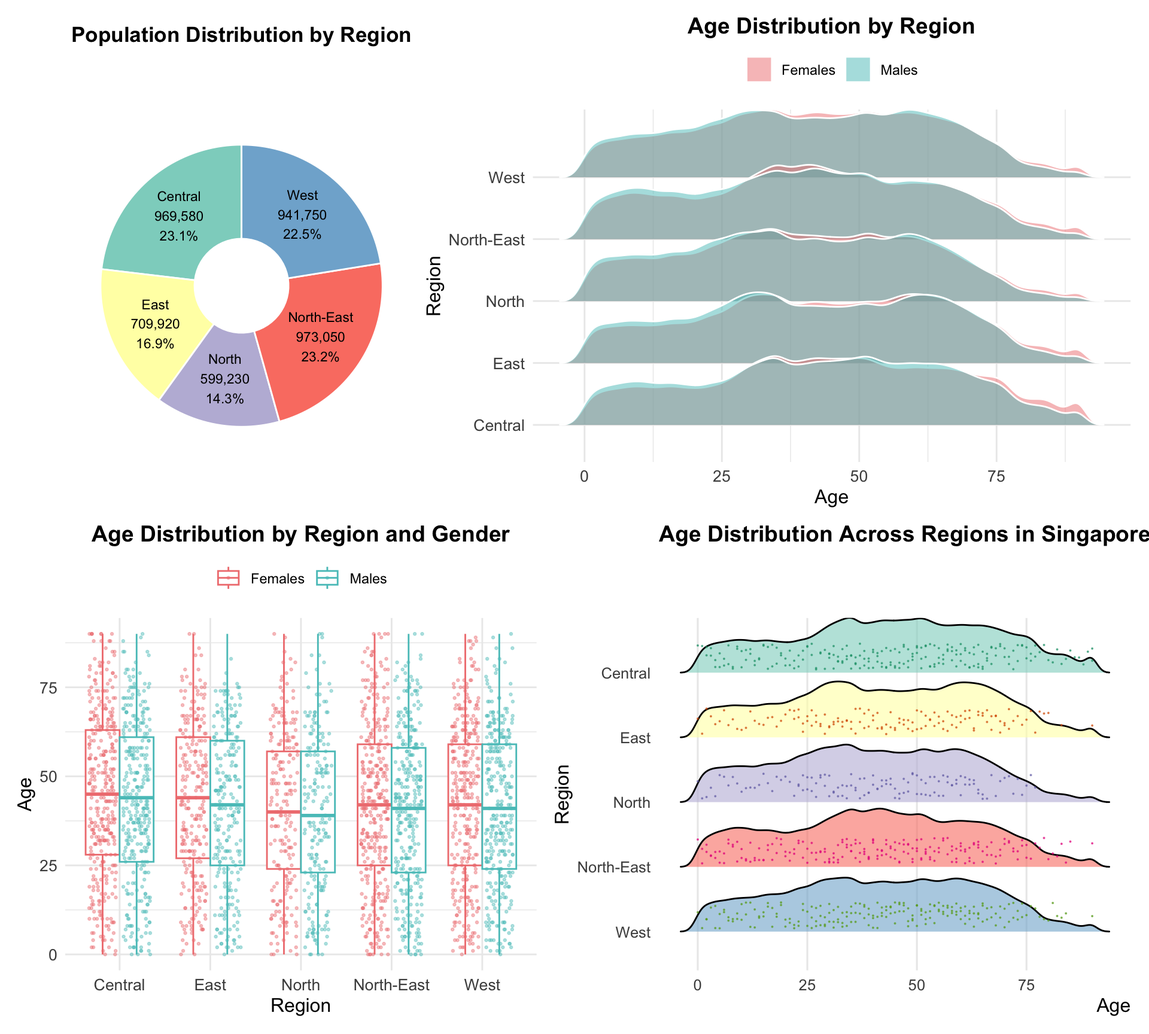
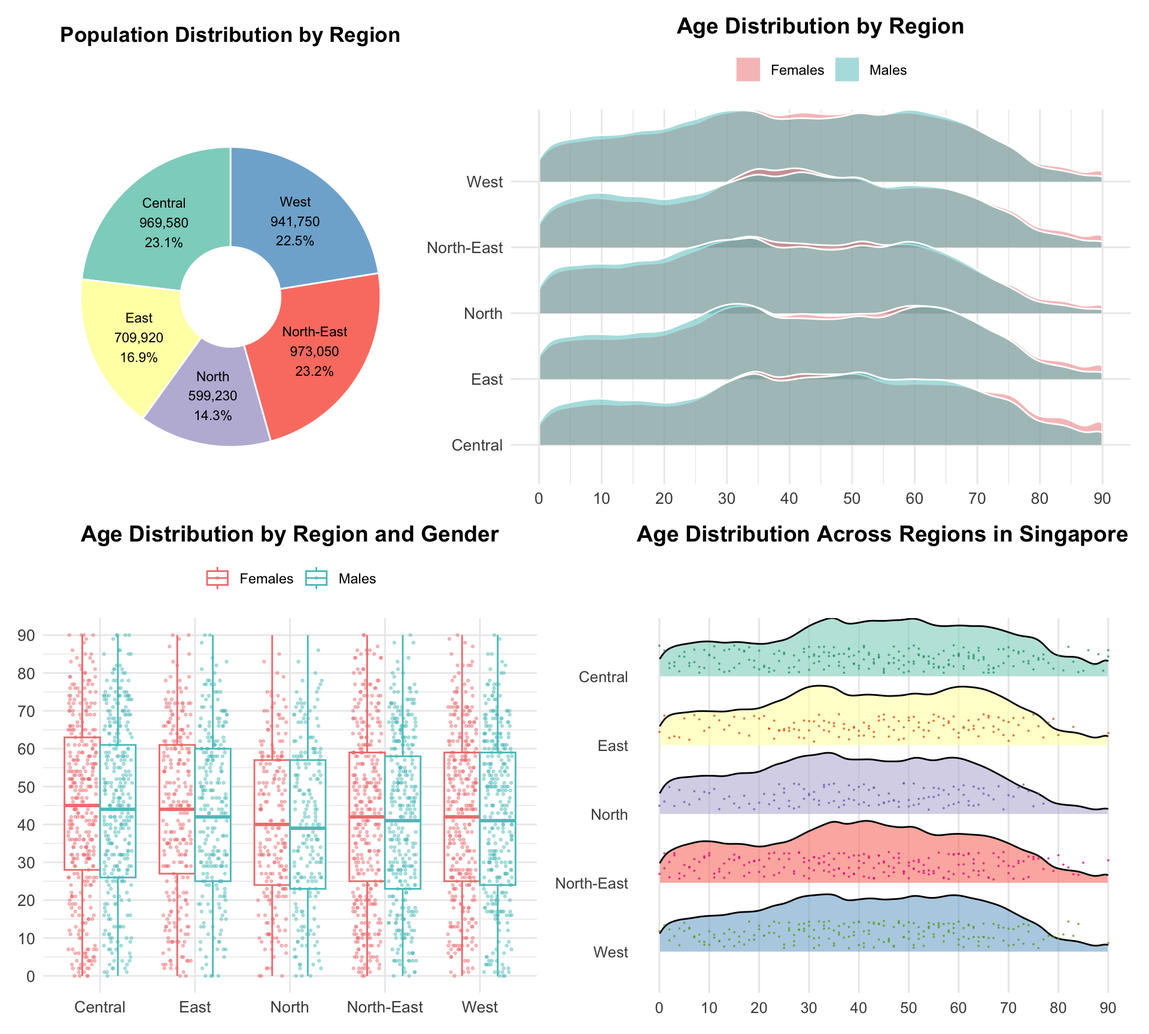
commit for take home ex 1 v5

diff --git a/_site/Take-home_Ex/Take-home_Ex01/Take-home_Ex01.html b/_site/Take-home_Ex/Take-home_Ex01/Take-home_Ex01.html
@@ -490,7 +490,7 @@ $ Time &lt;dbl&gt; 2024, 2024, 2024, 2024, 2024, 2024, 2024, 2024, 2024, 2024, 2
 <pre><code>                             size isdir mode               mtime
 data/respopagesex2024.csv 2521616 FALSE  644 2024-09-23 17:44:00
                                         ctime               atime uid gid
-data/respopagesex2024.csv 2025-05-02 17:13:57 2025-05-04 16:31:32 501  20
+data/respopagesex2024.csv 2025-05-02 17:13:57 2025-05-04 17:36:18 501  20
                              uname grname
 data/respopagesex2024.csv liyuquan  staff</code></pre>
 </div>
@@ -1199,55 +1199,56 @@ Insight
 <span id="cb29-51"><a href="#cb29-51" aria-hidden="true" tabindex="-1"></a>  <span class="fu">geom_text</span>(<span class="fu">aes</span>(<span class="at">label =</span> <span class="fu">round</span>(<span class="fu">abs</span>(Percent), <span class="dv">1</span>)),</span>
 <span id="cb29-52"><a href="#cb29-52" aria-hidden="true" tabindex="-1"></a>            <span class="at">position =</span> <span class="fu">position_stack</span>(<span class="at">vjust =</span> <span class="fl">0.5</span>),</span>
 <span id="cb29-53"><a href="#cb29-53" aria-hidden="true" tabindex="-1"></a>            <span class="at">size =</span> <span class="dv">3</span>, <span class="at">color =</span> <span class="st">"black"</span>) <span class="sc">+</span></span>
-<span id="cb29-54"><a href="#cb29-54" aria-hidden="true" tabindex="-1"></a>  <span class="fu">scale_x_continuous</span>(<span class="at">labels =</span> <span class="cf">function</span>(x) <span class="fu">paste0</span>(<span class="fu">abs</span>(x), <span class="st">"%"</span>)) <span class="sc">+</span></span>
-<span id="cb29-55"><a href="#cb29-55" aria-hidden="true" tabindex="-1"></a>  <span class="fu">scale_fill_manual</span>(<span class="at">values =</span> <span class="fu">c</span>(<span class="st">"Males"</span> <span class="ot">=</span> <span class="st">"#58c3c3"</span>, </span>
-<span id="cb29-56"><a href="#cb29-56" aria-hidden="true" tabindex="-1"></a>                               <span class="st">"Females"</span> <span class="ot">=</span> <span class="st">"#f08080"</span>)) <span class="sc">+</span></span>
-<span id="cb29-57"><a href="#cb29-57" aria-hidden="true" tabindex="-1"></a>  <span class="fu">labs</span>(</span>
-<span id="cb29-58"><a href="#cb29-58" aria-hidden="true" tabindex="-1"></a>    <span class="at">title =</span> <span class="st">"Gender Composition by Planning Area"</span>,</span>
-<span id="cb29-59"><a href="#cb29-59" aria-hidden="true" tabindex="-1"></a>    <span class="at">x =</span> <span class="st">"Percentage of Population (%)"</span>,</span>
-<span id="cb29-60"><a href="#cb29-60" aria-hidden="true" tabindex="-1"></a>    <span class="at">y =</span> <span class="st">"Planning Area"</span>,</span>
-<span id="cb29-61"><a href="#cb29-61" aria-hidden="true" tabindex="-1"></a>    <span class="at">fill =</span> <span class="st">"Sex"</span></span>
-<span id="cb29-62"><a href="#cb29-62" aria-hidden="true" tabindex="-1"></a>  ) <span class="sc">+</span></span>
-<span id="cb29-63"><a href="#cb29-63" aria-hidden="true" tabindex="-1"></a>  <span class="fu">theme_minimal</span>() <span class="sc">+</span></span>
-<span id="cb29-64"><a href="#cb29-64" aria-hidden="true" tabindex="-1"></a>  common_theme_v2</span>
-<span id="cb29-65"><a href="#cb29-65" aria-hidden="true" tabindex="-1"></a></span>
-<span id="cb29-66"><a href="#cb29-66" aria-hidden="true" tabindex="-1"></a><span class="co"># p8</span></span>
-<span id="cb29-67"><a href="#cb29-67" aria-hidden="true" tabindex="-1"></a>p8 <span class="ot">&lt;-</span> <span class="fu">ggplot</span>(v2_p8, <span class="fu">aes</span>(<span class="at">x =</span> Elderly_Rate_plot, </span>
-<span id="cb29-68"><a href="#cb29-68" aria-hidden="true" tabindex="-1"></a>                        <span class="at">y =</span> PA, </span>
-<span id="cb29-69"><a href="#cb29-69" aria-hidden="true" tabindex="-1"></a>                        <span class="at">fill =</span> Sex)) <span class="sc">+</span></span>
-<span id="cb29-70"><a href="#cb29-70" aria-hidden="true" tabindex="-1"></a>  <span class="fu">geom_col</span>(<span class="at">width =</span> <span class="fl">0.8</span>) <span class="sc">+</span></span>
-<span id="cb29-71"><a href="#cb29-71" aria-hidden="true" tabindex="-1"></a>  <span class="fu">geom_text</span>(</span>
-<span id="cb29-72"><a href="#cb29-72" aria-hidden="true" tabindex="-1"></a>    <span class="at">data =</span> <span class="fu">subset</span>(v2_p8, </span>
-<span id="cb29-73"><a href="#cb29-73" aria-hidden="true" tabindex="-1"></a>                  Sex <span class="sc">==</span> <span class="st">"Females"</span>),</span>
-<span id="cb29-74"><a href="#cb29-74" aria-hidden="true" tabindex="-1"></a>    <span class="fu">aes</span>(<span class="at">label =</span> <span class="fu">paste0</span>(<span class="fu">round</span>(<span class="fu">abs</span>(Elderly_Rate), <span class="dv">1</span>), <span class="st">"%"</span>)),</span>
-<span id="cb29-75"><a href="#cb29-75" aria-hidden="true" tabindex="-1"></a>    <span class="at">nudge_x =</span> <span class="sc">-</span><span class="dv">9</span>,</span>
-<span id="cb29-76"><a href="#cb29-76" aria-hidden="true" tabindex="-1"></a>    <span class="at">size =</span> <span class="dv">3</span>,</span>
-<span id="cb29-77"><a href="#cb29-77" aria-hidden="true" tabindex="-1"></a>    <span class="at">color =</span> <span class="st">"black"</span></span>
-<span id="cb29-78"><a href="#cb29-78" aria-hidden="true" tabindex="-1"></a>  ) <span class="sc">+</span></span>
-<span id="cb29-79"><a href="#cb29-79" aria-hidden="true" tabindex="-1"></a>  </span>
-<span id="cb29-80"><a href="#cb29-80" aria-hidden="true" tabindex="-1"></a>  <span class="fu">geom_text</span>(</span>
-<span id="cb29-81"><a href="#cb29-81" aria-hidden="true" tabindex="-1"></a>    <span class="at">data =</span> <span class="fu">subset</span>(v2_p8, </span>
-<span id="cb29-82"><a href="#cb29-82" aria-hidden="true" tabindex="-1"></a>                  Sex <span class="sc">==</span> <span class="st">"Males"</span>),</span>
-<span id="cb29-83"><a href="#cb29-83" aria-hidden="true" tabindex="-1"></a>    <span class="fu">aes</span>(<span class="at">label =</span> <span class="fu">paste0</span>(<span class="fu">round</span>(<span class="fu">abs</span>(Elderly_Rate), <span class="dv">1</span>), <span class="st">"%"</span>)),</span>
-<span id="cb29-84"><a href="#cb29-84" aria-hidden="true" tabindex="-1"></a>    <span class="at">nudge_x =</span> <span class="dv">9</span>,</span>
-<span id="cb29-85"><a href="#cb29-85" aria-hidden="true" tabindex="-1"></a>    <span class="at">size =</span> <span class="dv">3</span>,</span>
-<span id="cb29-86"><a href="#cb29-86" aria-hidden="true" tabindex="-1"></a>    <span class="at">color =</span> <span class="st">"black"</span></span>
-<span id="cb29-87"><a href="#cb29-87" aria-hidden="true" tabindex="-1"></a>  ) <span class="sc">+</span></span>
-<span id="cb29-88"><a href="#cb29-88" aria-hidden="true" tabindex="-1"></a>  <span class="fu">scale_x_continuous</span>(<span class="at">labels =</span> <span class="cf">function</span>(x) <span class="fu">paste0</span>(<span class="fu">abs</span>(x), <span class="st">"%"</span>)) <span class="sc">+</span></span>
-<span id="cb29-89"><a href="#cb29-89" aria-hidden="true" tabindex="-1"></a>  <span class="fu">scale_fill_manual</span>(<span class="at">values =</span> <span class="fu">c</span>(<span class="st">"Males"</span> <span class="ot">=</span> <span class="st">"#58c3c3"</span>, </span>
-<span id="cb29-90"><a href="#cb29-90" aria-hidden="true" tabindex="-1"></a>                               <span class="st">"Females"</span> <span class="ot">=</span> <span class="st">"#f08080"</span>)) <span class="sc">+</span></span>
-<span id="cb29-91"><a href="#cb29-91" aria-hidden="true" tabindex="-1"></a>  <span class="fu">labs</span>(</span>
-<span id="cb29-92"><a href="#cb29-92" aria-hidden="true" tabindex="-1"></a>    <span class="at">title =</span> <span class="st">"Top 10 &amp; Bottom 10 Areas by Elderly Rate</span><span class="sc">\n</span><span class="st">(≥ 65) by Gender"</span>,</span>
-<span id="cb29-93"><a href="#cb29-93" aria-hidden="true" tabindex="-1"></a>    <span class="at">x =</span> <span class="st">"Elderly Population Ratio (%)"</span>,</span>
-<span id="cb29-94"><a href="#cb29-94" aria-hidden="true" tabindex="-1"></a>    <span class="at">y =</span> <span class="st">"Planning Area"</span>,</span>
-<span id="cb29-95"><a href="#cb29-95" aria-hidden="true" tabindex="-1"></a>    <span class="at">fill =</span> <span class="st">"Sex"</span></span>
-<span id="cb29-96"><a href="#cb29-96" aria-hidden="true" tabindex="-1"></a>  ) <span class="sc">+</span></span>
-<span id="cb29-97"><a href="#cb29-97" aria-hidden="true" tabindex="-1"></a>    <span class="fu">coord_cartesian</span>(<span class="at">xlim =</span> <span class="fu">c</span>(<span class="sc">-</span><span class="dv">50</span>, <span class="dv">50</span>)) <span class="sc">+</span>  </span>
-<span id="cb29-98"><a href="#cb29-98" aria-hidden="true" tabindex="-1"></a>  <span class="fu">theme_minimal</span>() <span class="sc">+</span></span>
-<span id="cb29-99"><a href="#cb29-99" aria-hidden="true" tabindex="-1"></a>  common_theme_v2</span>
-<span id="cb29-100"><a href="#cb29-100" aria-hidden="true" tabindex="-1"></a></span>
+<span id="cb29-54"><a href="#cb29-54" aria-hidden="true" tabindex="-1"></a>  <span class="fu">scale_x_continuous</span>(<span class="at">limits =</span> <span class="fu">c</span>(<span class="sc">-</span><span class="dv">60</span>, <span class="dv">60</span>),</span>
+<span id="cb29-55"><a href="#cb29-55" aria-hidden="true" tabindex="-1"></a>                     <span class="at">labels =</span> <span class="cf">function</span>(x) <span class="fu">paste0</span>(<span class="fu">abs</span>(x), <span class="st">"%"</span>)) <span class="sc">+</span></span>
+<span id="cb29-56"><a href="#cb29-56" aria-hidden="true" tabindex="-1"></a>  <span class="fu">scale_fill_manual</span>(<span class="at">values =</span> <span class="fu">c</span>(<span class="st">"Males"</span> <span class="ot">=</span> <span class="st">"#58c3c3"</span>, </span>
+<span id="cb29-57"><a href="#cb29-57" aria-hidden="true" tabindex="-1"></a>                               <span class="st">"Females"</span> <span class="ot">=</span> <span class="st">"#f08080"</span>)) <span class="sc">+</span></span>
+<span id="cb29-58"><a href="#cb29-58" aria-hidden="true" tabindex="-1"></a>  <span class="fu">labs</span>(</span>
+<span id="cb29-59"><a href="#cb29-59" aria-hidden="true" tabindex="-1"></a>    <span class="at">title =</span> <span class="st">"Gender Composition by Planning Area"</span>,</span>
+<span id="cb29-60"><a href="#cb29-60" aria-hidden="true" tabindex="-1"></a>    <span class="at">x =</span> <span class="st">"Percentage of Population (%)"</span>,</span>
+<span id="cb29-61"><a href="#cb29-61" aria-hidden="true" tabindex="-1"></a>    <span class="at">y =</span> <span class="st">"Planning Area"</span>,</span>
+<span id="cb29-62"><a href="#cb29-62" aria-hidden="true" tabindex="-1"></a>    <span class="at">fill =</span> <span class="st">"Sex"</span></span>
+<span id="cb29-63"><a href="#cb29-63" aria-hidden="true" tabindex="-1"></a>  ) <span class="sc">+</span></span>
+<span id="cb29-64"><a href="#cb29-64" aria-hidden="true" tabindex="-1"></a>  <span class="fu">theme_minimal</span>() <span class="sc">+</span></span>
+<span id="cb29-65"><a href="#cb29-65" aria-hidden="true" tabindex="-1"></a>  common_theme_v2</span>
+<span id="cb29-66"><a href="#cb29-66" aria-hidden="true" tabindex="-1"></a></span>
+<span id="cb29-67"><a href="#cb29-67" aria-hidden="true" tabindex="-1"></a><span class="co"># p8</span></span>
+<span id="cb29-68"><a href="#cb29-68" aria-hidden="true" tabindex="-1"></a>p8 <span class="ot">&lt;-</span> <span class="fu">ggplot</span>(v2_p8, <span class="fu">aes</span>(<span class="at">x =</span> Elderly_Rate_plot, </span>
+<span id="cb29-69"><a href="#cb29-69" aria-hidden="true" tabindex="-1"></a>                        <span class="at">y =</span> PA, </span>
+<span id="cb29-70"><a href="#cb29-70" aria-hidden="true" tabindex="-1"></a>                        <span class="at">fill =</span> Sex)) <span class="sc">+</span></span>
+<span id="cb29-71"><a href="#cb29-71" aria-hidden="true" tabindex="-1"></a>  <span class="fu">geom_col</span>(<span class="at">width =</span> <span class="fl">0.8</span>) <span class="sc">+</span></span>
+<span id="cb29-72"><a href="#cb29-72" aria-hidden="true" tabindex="-1"></a>  <span class="fu">geom_text</span>(</span>
+<span id="cb29-73"><a href="#cb29-73" aria-hidden="true" tabindex="-1"></a>    <span class="at">data =</span> <span class="fu">subset</span>(v2_p8, </span>
+<span id="cb29-74"><a href="#cb29-74" aria-hidden="true" tabindex="-1"></a>                  Sex <span class="sc">==</span> <span class="st">"Females"</span>),</span>
+<span id="cb29-75"><a href="#cb29-75" aria-hidden="true" tabindex="-1"></a>    <span class="fu">aes</span>(<span class="at">label =</span> <span class="fu">paste0</span>(<span class="fu">round</span>(<span class="fu">abs</span>(Elderly_Rate), <span class="dv">1</span>), <span class="st">"%"</span>)),</span>
+<span id="cb29-76"><a href="#cb29-76" aria-hidden="true" tabindex="-1"></a>    <span class="at">nudge_x =</span> <span class="sc">-</span><span class="dv">9</span>,</span>
+<span id="cb29-77"><a href="#cb29-77" aria-hidden="true" tabindex="-1"></a>    <span class="at">size =</span> <span class="dv">3</span>,</span>
+<span id="cb29-78"><a href="#cb29-78" aria-hidden="true" tabindex="-1"></a>    <span class="at">color =</span> <span class="st">"black"</span></span>
+<span id="cb29-79"><a href="#cb29-79" aria-hidden="true" tabindex="-1"></a>  ) <span class="sc">+</span></span>
+<span id="cb29-80"><a href="#cb29-80" aria-hidden="true" tabindex="-1"></a>  </span>
+<span id="cb29-81"><a href="#cb29-81" aria-hidden="true" tabindex="-1"></a>  <span class="fu">geom_text</span>(</span>
+<span id="cb29-82"><a href="#cb29-82" aria-hidden="true" tabindex="-1"></a>    <span class="at">data =</span> <span class="fu">subset</span>(v2_p8, </span>
+<span id="cb29-83"><a href="#cb29-83" aria-hidden="true" tabindex="-1"></a>                  Sex <span class="sc">==</span> <span class="st">"Males"</span>),</span>
+<span id="cb29-84"><a href="#cb29-84" aria-hidden="true" tabindex="-1"></a>    <span class="fu">aes</span>(<span class="at">label =</span> <span class="fu">paste0</span>(<span class="fu">round</span>(<span class="fu">abs</span>(Elderly_Rate), <span class="dv">1</span>), <span class="st">"%"</span>)),</span>
+<span id="cb29-85"><a href="#cb29-85" aria-hidden="true" tabindex="-1"></a>    <span class="at">nudge_x =</span> <span class="dv">9</span>,</span>
+<span id="cb29-86"><a href="#cb29-86" aria-hidden="true" tabindex="-1"></a>    <span class="at">size =</span> <span class="dv">3</span>,</span>
+<span id="cb29-87"><a href="#cb29-87" aria-hidden="true" tabindex="-1"></a>    <span class="at">color =</span> <span class="st">"black"</span></span>
+<span id="cb29-88"><a href="#cb29-88" aria-hidden="true" tabindex="-1"></a>  ) <span class="sc">+</span></span>
+<span id="cb29-89"><a href="#cb29-89" aria-hidden="true" tabindex="-1"></a>  <span class="fu">scale_x_continuous</span>(<span class="at">labels =</span> <span class="cf">function</span>(x) <span class="fu">paste0</span>(<span class="fu">abs</span>(x), <span class="st">"%"</span>)) <span class="sc">+</span></span>
+<span id="cb29-90"><a href="#cb29-90" aria-hidden="true" tabindex="-1"></a>  <span class="fu">scale_fill_manual</span>(<span class="at">values =</span> <span class="fu">c</span>(<span class="st">"Males"</span> <span class="ot">=</span> <span class="st">"#58c3c3"</span>, </span>
+<span id="cb29-91"><a href="#cb29-91" aria-hidden="true" tabindex="-1"></a>                               <span class="st">"Females"</span> <span class="ot">=</span> <span class="st">"#f08080"</span>)) <span class="sc">+</span></span>
+<span id="cb29-92"><a href="#cb29-92" aria-hidden="true" tabindex="-1"></a>  <span class="fu">labs</span>(</span>
+<span id="cb29-93"><a href="#cb29-93" aria-hidden="true" tabindex="-1"></a>    <span class="at">title =</span> <span class="st">"Top 10 &amp; Bottom 10 Areas by Elderly Rate</span><span class="sc">\n</span><span class="st">(≥ 65) by Gender"</span>,</span>
+<span id="cb29-94"><a href="#cb29-94" aria-hidden="true" tabindex="-1"></a>    <span class="at">x =</span> <span class="st">"Elderly Population Ratio (%)"</span>,</span>
+<span id="cb29-95"><a href="#cb29-95" aria-hidden="true" tabindex="-1"></a>    <span class="at">y =</span> <span class="st">"Planning Area"</span>,</span>
+<span id="cb29-96"><a href="#cb29-96" aria-hidden="true" tabindex="-1"></a>    <span class="at">fill =</span> <span class="st">"Sex"</span></span>
+<span id="cb29-97"><a href="#cb29-97" aria-hidden="true" tabindex="-1"></a>  ) <span class="sc">+</span></span>
+<span id="cb29-98"><a href="#cb29-98" aria-hidden="true" tabindex="-1"></a>    <span class="fu">coord_cartesian</span>(<span class="at">xlim =</span> <span class="fu">c</span>(<span class="sc">-</span><span class="dv">50</span>, <span class="dv">50</span>)) <span class="sc">+</span>  </span>
+<span id="cb29-99"><a href="#cb29-99" aria-hidden="true" tabindex="-1"></a>  <span class="fu">theme_minimal</span>() <span class="sc">+</span></span>
+<span id="cb29-100"><a href="#cb29-100" aria-hidden="true" tabindex="-1"></a>  common_theme_v2</span>
 <span id="cb29-101"><a href="#cb29-101" aria-hidden="true" tabindex="-1"></a></span>
-<span id="cb29-102"><a href="#cb29-102" aria-hidden="true" tabindex="-1"></a>(p6 <span class="sc">/</span> p8) <span class="sc">|</span> p7</span></code><button title="Copy to Clipboard" class="code-copy-button"><i class="bi"></i></button></pre></div>
+<span id="cb29-102"><a href="#cb29-102" aria-hidden="true" tabindex="-1"></a></span>
+<span id="cb29-103"><a href="#cb29-103" aria-hidden="true" tabindex="-1"></a>(p6 <span class="sc">/</span> p8) <span class="sc">|</span> p7</span></code><button title="Copy to Clipboard" class="code-copy-button"><i class="bi"></i></button></pre></div>
 </div>
 </div>
 </div>
@@ -1339,81 +1340,84 @@ Insight
 <span id="cb30-47"><a href="#cb30-47" aria-hidden="true" tabindex="-1"></a>  ) <span class="sc">+</span></span>
 <span id="cb30-48"><a href="#cb30-48" aria-hidden="true" tabindex="-1"></a>  <span class="fu">scale_fill_manual</span>(<span class="at">values =</span> <span class="fu">c</span>(<span class="st">"Males"</span> <span class="ot">=</span> <span class="st">"#58c3c3"</span>, </span>
 <span id="cb30-49"><a href="#cb30-49" aria-hidden="true" tabindex="-1"></a>                               <span class="st">"Females"</span> <span class="ot">=</span> <span class="st">"#f08080"</span>)) <span class="sc">+</span></span>
-<span id="cb30-50"><a href="#cb30-50" aria-hidden="true" tabindex="-1"></a>  <span class="fu">labs</span>(</span>
-<span id="cb30-51"><a href="#cb30-51" aria-hidden="true" tabindex="-1"></a>    <span class="at">title =</span> <span class="st">"Age Distribution by Region"</span>,</span>
-<span id="cb30-52"><a href="#cb30-52" aria-hidden="true" tabindex="-1"></a>    <span class="at">x =</span> <span class="st">"Age"</span>,</span>
-<span id="cb30-53"><a href="#cb30-53" aria-hidden="true" tabindex="-1"></a>    <span class="at">y =</span> <span class="st">"Region"</span>,</span>
-<span id="cb30-54"><a href="#cb30-54" aria-hidden="true" tabindex="-1"></a>    <span class="at">fill =</span> <span class="cn">NULL</span></span>
-<span id="cb30-55"><a href="#cb30-55" aria-hidden="true" tabindex="-1"></a>  ) <span class="sc">+</span></span>
-<span id="cb30-56"><a href="#cb30-56" aria-hidden="true" tabindex="-1"></a>  <span class="fu">theme_minimal</span>() <span class="sc">+</span></span>
-<span id="cb30-57"><a href="#cb30-57" aria-hidden="true" tabindex="-1"></a>  common_theme_v3 </span>
-<span id="cb30-58"><a href="#cb30-58" aria-hidden="true" tabindex="-1"></a></span>
-<span id="cb30-59"><a href="#cb30-59" aria-hidden="true" tabindex="-1"></a><span class="co"># p11</span></span>
-<span id="cb30-60"><a href="#cb30-60" aria-hidden="true" tabindex="-1"></a>p11 <span class="ot">&lt;-</span> <span class="fu">ggplot</span>() <span class="sc">+</span></span>
-<span id="cb30-61"><a href="#cb30-61" aria-hidden="true" tabindex="-1"></a>  <span class="fu">geom_boxplot</span>(</span>
-<span id="cb30-62"><a href="#cb30-62" aria-hidden="true" tabindex="-1"></a>    <span class="at">data =</span> v3_p10,</span>
-<span id="cb30-63"><a href="#cb30-63" aria-hidden="true" tabindex="-1"></a>    <span class="fu">aes</span>(<span class="at">x =</span> Region, </span>
-<span id="cb30-64"><a href="#cb30-64" aria-hidden="true" tabindex="-1"></a>        <span class="at">y =</span> Age, </span>
-<span id="cb30-65"><a href="#cb30-65" aria-hidden="true" tabindex="-1"></a>        <span class="at">color =</span> Sex),</span>
-<span id="cb30-66"><a href="#cb30-66" aria-hidden="true" tabindex="-1"></a>    <span class="at">position =</span> <span class="fu">position_dodge</span>(<span class="at">width =</span> <span class="fl">0.75</span>),</span>
-<span id="cb30-67"><a href="#cb30-67" aria-hidden="true" tabindex="-1"></a>  ) <span class="sc">+</span></span>
-<span id="cb30-68"><a href="#cb30-68" aria-hidden="true" tabindex="-1"></a>  <span class="fu">geom_point</span>(</span>
-<span id="cb30-69"><a href="#cb30-69" aria-hidden="true" tabindex="-1"></a>    <span class="at">data =</span> v3_p11,</span>
-<span id="cb30-70"><a href="#cb30-70" aria-hidden="true" tabindex="-1"></a>    <span class="fu">aes</span>(<span class="at">x =</span> Region, </span>
-<span id="cb30-71"><a href="#cb30-71" aria-hidden="true" tabindex="-1"></a>        <span class="at">y =</span> Age, </span>
-<span id="cb30-72"><a href="#cb30-72" aria-hidden="true" tabindex="-1"></a>        <span class="at">color =</span> Sex),</span>
-<span id="cb30-73"><a href="#cb30-73" aria-hidden="true" tabindex="-1"></a>    <span class="at">position =</span> <span class="fu">position_jitterdodge</span>(<span class="at">jitter.width =</span> <span class="fl">0.3</span>, </span>
-<span id="cb30-74"><a href="#cb30-74" aria-hidden="true" tabindex="-1"></a>                                    <span class="at">dodge.width =</span> <span class="fl">0.75</span>),</span>
-<span id="cb30-75"><a href="#cb30-75" aria-hidden="true" tabindex="-1"></a>    <span class="at">size =</span> <span class="fl">0.5</span>,</span>
-<span id="cb30-76"><a href="#cb30-76" aria-hidden="true" tabindex="-1"></a>    <span class="at">alpha =</span> <span class="fl">0.4</span></span>
-<span id="cb30-77"><a href="#cb30-77" aria-hidden="true" tabindex="-1"></a>  ) <span class="sc">+</span></span>
-<span id="cb30-78"><a href="#cb30-78" aria-hidden="true" tabindex="-1"></a>  <span class="fu">scale_color_manual</span>(<span class="at">values =</span> <span class="fu">c</span>(<span class="st">"Males"</span> <span class="ot">=</span> <span class="st">"#58c3c3"</span>, </span>
-<span id="cb30-79"><a href="#cb30-79" aria-hidden="true" tabindex="-1"></a>                                <span class="st">"Females"</span> <span class="ot">=</span> <span class="st">"#f08080"</span>)) <span class="sc">+</span></span>
-<span id="cb30-80"><a href="#cb30-80" aria-hidden="true" tabindex="-1"></a>  <span class="fu">labs</span>(</span>
-<span id="cb30-81"><a href="#cb30-81" aria-hidden="true" tabindex="-1"></a>    <span class="at">title =</span> <span class="st">"Age Distribution by Region and Gender"</span>,</span>
-<span id="cb30-82"><a href="#cb30-82" aria-hidden="true" tabindex="-1"></a>    <span class="at">x =</span> <span class="st">"Region"</span>,</span>
-<span id="cb30-83"><a href="#cb30-83" aria-hidden="true" tabindex="-1"></a>    <span class="at">y =</span> <span class="st">"Age"</span>,</span>
-<span id="cb30-84"><a href="#cb30-84" aria-hidden="true" tabindex="-1"></a>    <span class="at">color =</span> <span class="cn">NULL</span></span>
-<span id="cb30-85"><a href="#cb30-85" aria-hidden="true" tabindex="-1"></a>  ) <span class="sc">+</span></span>
-<span id="cb30-86"><a href="#cb30-86" aria-hidden="true" tabindex="-1"></a>  <span class="fu">theme_minimal</span>() <span class="sc">+</span></span>
-<span id="cb30-87"><a href="#cb30-87" aria-hidden="true" tabindex="-1"></a>  common_theme_v3</span>
-<span id="cb30-88"><a href="#cb30-88" aria-hidden="true" tabindex="-1"></a></span>
-<span id="cb30-89"><a href="#cb30-89" aria-hidden="true" tabindex="-1"></a></span>
-<span id="cb30-90"><a href="#cb30-90" aria-hidden="true" tabindex="-1"></a>p12 <span class="ot">&lt;-</span> <span class="fu">ggplot</span>(v3_ridges, <span class="fu">aes</span>(<span class="at">x =</span> Age, <span class="at">y =</span> <span class="fu">fct_rev</span>(Region), </span>
-<span id="cb30-91"><a href="#cb30-91" aria-hidden="true" tabindex="-1"></a>                             <span class="at">fill =</span> Region)) <span class="sc">+</span></span>
-<span id="cb30-92"><a href="#cb30-92" aria-hidden="true" tabindex="-1"></a>  <span class="fu">geom_density_ridges</span>(<span class="at">scale =</span> <span class="fl">0.9</span>, </span>
-<span id="cb30-93"><a href="#cb30-93" aria-hidden="true" tabindex="-1"></a>                      <span class="at">alpha =</span> <span class="fl">0.6</span>, </span>
-<span id="cb30-94"><a href="#cb30-94" aria-hidden="true" tabindex="-1"></a>                      <span class="at">color =</span> <span class="st">"black"</span>) <span class="sc">+</span></span>
-<span id="cb30-95"><a href="#cb30-95" aria-hidden="true" tabindex="-1"></a></span>
-<span id="cb30-96"><a href="#cb30-96" aria-hidden="true" tabindex="-1"></a>  <span class="fu">geom_jitter</span>(<span class="at">data =</span> v3_points,</span>
-<span id="cb30-97"><a href="#cb30-97" aria-hidden="true" tabindex="-1"></a>              <span class="fu">aes</span>(<span class="at">x =</span> Age, </span>
-<span id="cb30-98"><a href="#cb30-98" aria-hidden="true" tabindex="-1"></a>                  <span class="at">y =</span> Region_numeric <span class="sc">+</span> <span class="fl">0.25</span>, </span>
-<span id="cb30-99"><a href="#cb30-99" aria-hidden="true" tabindex="-1"></a>                  <span class="at">color =</span> Region),</span>
-<span id="cb30-100"><a href="#cb30-100" aria-hidden="true" tabindex="-1"></a>              <span class="at">height =</span> <span class="fl">0.2</span>, </span>
-<span id="cb30-101"><a href="#cb30-101" aria-hidden="true" tabindex="-1"></a>              <span class="at">width =</span> <span class="dv">0</span>, </span>
-<span id="cb30-102"><a href="#cb30-102" aria-hidden="true" tabindex="-1"></a>              <span class="at">size =</span> <span class="fl">0.05</span>, </span>
-<span id="cb30-103"><a href="#cb30-103" aria-hidden="true" tabindex="-1"></a>              <span class="at">alpha =</span> <span class="fl">0.6</span>,</span>
-<span id="cb30-104"><a href="#cb30-104" aria-hidden="true" tabindex="-1"></a>              <span class="at">inherit.aes =</span> <span class="cn">FALSE</span>) <span class="sc">+</span></span>
-<span id="cb30-105"><a href="#cb30-105" aria-hidden="true" tabindex="-1"></a>  </span>
-<span id="cb30-106"><a href="#cb30-106" aria-hidden="true" tabindex="-1"></a>  <span class="fu">scale_fill_brewer</span>(<span class="at">palette =</span> <span class="st">"Set3"</span>) <span class="sc">+</span></span>
-<span id="cb30-107"><a href="#cb30-107" aria-hidden="true" tabindex="-1"></a>  <span class="fu">scale_color_brewer</span>(<span class="at">palette =</span> <span class="st">"Dark2"</span>) <span class="sc">+</span></span>
-<span id="cb30-108"><a href="#cb30-108" aria-hidden="true" tabindex="-1"></a>  <span class="fu">labs</span>(</span>
-<span id="cb30-109"><a href="#cb30-109" aria-hidden="true" tabindex="-1"></a>    <span class="at">title =</span> <span class="st">"Age Distribution Across Regions in Singapore"</span>,</span>
-<span id="cb30-110"><a href="#cb30-110" aria-hidden="true" tabindex="-1"></a>    <span class="at">x =</span> <span class="st">"Age"</span>,</span>
-<span id="cb30-111"><a href="#cb30-111" aria-hidden="true" tabindex="-1"></a>    <span class="at">y =</span> <span class="st">"Region"</span></span>
-<span id="cb30-112"><a href="#cb30-112" aria-hidden="true" tabindex="-1"></a>  ) <span class="sc">+</span></span>
-<span id="cb30-113"><a href="#cb30-113" aria-hidden="true" tabindex="-1"></a>  <span class="fu">theme_minimal</span>(<span class="at">base_size =</span> <span class="dv">12</span>) <span class="sc">+</span></span>
-<span id="cb30-114"><a href="#cb30-114" aria-hidden="true" tabindex="-1"></a>  <span class="fu">theme</span>(</span>
-<span id="cb30-115"><a href="#cb30-115" aria-hidden="true" tabindex="-1"></a>    <span class="at">legend.position =</span> <span class="st">"none"</span>,</span>
-<span id="cb30-116"><a href="#cb30-116" aria-hidden="true" tabindex="-1"></a>    <span class="at">panel.grid.major.y =</span> <span class="fu">element_blank</span>(),</span>
-<span id="cb30-117"><a href="#cb30-117" aria-hidden="true" tabindex="-1"></a>    <span class="at">panel.grid.minor =</span> <span class="fu">element_blank</span>(),</span>
-<span id="cb30-118"><a href="#cb30-118" aria-hidden="true" tabindex="-1"></a>    <span class="at">axis.title.x =</span> <span class="fu">element_text</span>(<span class="at">hjust =</span> <span class="dv">1</span>),</span>
-<span id="cb30-119"><a href="#cb30-119" aria-hidden="true" tabindex="-1"></a>    <span class="at">plot.title =</span> <span class="fu">element_text</span>(<span class="at">face =</span> <span class="st">"bold"</span>, <span class="at">size =</span> <span class="dv">14</span>),</span>
-<span id="cb30-120"><a href="#cb30-120" aria-hidden="true" tabindex="-1"></a>  )</span>
-<span id="cb30-121"><a href="#cb30-121" aria-hidden="true" tabindex="-1"></a></span>
-<span id="cb30-122"><a href="#cb30-122" aria-hidden="true" tabindex="-1"></a></span>
-<span id="cb30-123"><a href="#cb30-123" aria-hidden="true" tabindex="-1"></a>a <span class="ot">&lt;-</span> (p9 <span class="sc">+</span> p10) <span class="sc">/</span> (p11<span class="sc">+</span>p12)</span>
-<span id="cb30-124"><a href="#cb30-124" aria-hidden="true" tabindex="-1"></a>a </span></code><button title="Copy to Clipboard" class="code-copy-button"><i class="bi"></i></button></pre></div>
+<span id="cb30-50"><a href="#cb30-50" aria-hidden="true" tabindex="-1"></a>  <span class="fu">scale_x_continuous</span>(<span class="at">breaks =</span> <span class="fu">seq</span>(<span class="dv">0</span>, <span class="dv">90</span>, <span class="at">by =</span> <span class="dv">10</span>), <span class="at">limits =</span> <span class="fu">c</span>(<span class="dv">0</span>, <span class="dv">90</span>)) <span class="sc">+</span> </span>
+<span id="cb30-51"><a href="#cb30-51" aria-hidden="true" tabindex="-1"></a>  <span class="fu">labs</span>(</span>
+<span id="cb30-52"><a href="#cb30-52" aria-hidden="true" tabindex="-1"></a>    <span class="at">title =</span> <span class="st">"Age Distribution by Region"</span>,</span>
+<span id="cb30-53"><a href="#cb30-53" aria-hidden="true" tabindex="-1"></a>    <span class="at">x =</span> <span class="cn">NULL</span>,</span>
+<span id="cb30-54"><a href="#cb30-54" aria-hidden="true" tabindex="-1"></a>    <span class="at">y =</span> <span class="cn">NULL</span>,</span>
+<span id="cb30-55"><a href="#cb30-55" aria-hidden="true" tabindex="-1"></a>    <span class="at">fill =</span> <span class="cn">NULL</span></span>
+<span id="cb30-56"><a href="#cb30-56" aria-hidden="true" tabindex="-1"></a>  ) <span class="sc">+</span></span>
+<span id="cb30-57"><a href="#cb30-57" aria-hidden="true" tabindex="-1"></a>  <span class="fu">theme_minimal</span>() <span class="sc">+</span></span>
+<span id="cb30-58"><a href="#cb30-58" aria-hidden="true" tabindex="-1"></a>  common_theme_v3 </span>
+<span id="cb30-59"><a href="#cb30-59" aria-hidden="true" tabindex="-1"></a></span>
+<span id="cb30-60"><a href="#cb30-60" aria-hidden="true" tabindex="-1"></a><span class="co"># p11</span></span>
+<span id="cb30-61"><a href="#cb30-61" aria-hidden="true" tabindex="-1"></a>p11 <span class="ot">&lt;-</span> <span class="fu">ggplot</span>() <span class="sc">+</span></span>
+<span id="cb30-62"><a href="#cb30-62" aria-hidden="true" tabindex="-1"></a>  <span class="fu">geom_boxplot</span>(</span>
+<span id="cb30-63"><a href="#cb30-63" aria-hidden="true" tabindex="-1"></a>    <span class="at">data =</span> v3_p10,</span>
+<span id="cb30-64"><a href="#cb30-64" aria-hidden="true" tabindex="-1"></a>    <span class="fu">aes</span>(<span class="at">x =</span> Region, </span>
+<span id="cb30-65"><a href="#cb30-65" aria-hidden="true" tabindex="-1"></a>        <span class="at">y =</span> Age, </span>
+<span id="cb30-66"><a href="#cb30-66" aria-hidden="true" tabindex="-1"></a>        <span class="at">color =</span> Sex),</span>
+<span id="cb30-67"><a href="#cb30-67" aria-hidden="true" tabindex="-1"></a>    <span class="at">position =</span> <span class="fu">position_dodge</span>(<span class="at">width =</span> <span class="fl">0.75</span>),</span>
+<span id="cb30-68"><a href="#cb30-68" aria-hidden="true" tabindex="-1"></a>  ) <span class="sc">+</span></span>
+<span id="cb30-69"><a href="#cb30-69" aria-hidden="true" tabindex="-1"></a>  <span class="fu">geom_point</span>(</span>
+<span id="cb30-70"><a href="#cb30-70" aria-hidden="true" tabindex="-1"></a>    <span class="at">data =</span> v3_p11,</span>
+<span id="cb30-71"><a href="#cb30-71" aria-hidden="true" tabindex="-1"></a>    <span class="fu">aes</span>(<span class="at">x =</span> Region, </span>
+<span id="cb30-72"><a href="#cb30-72" aria-hidden="true" tabindex="-1"></a>        <span class="at">y =</span> Age, </span>
+<span id="cb30-73"><a href="#cb30-73" aria-hidden="true" tabindex="-1"></a>        <span class="at">color =</span> Sex),</span>
+<span id="cb30-74"><a href="#cb30-74" aria-hidden="true" tabindex="-1"></a>    <span class="at">position =</span> <span class="fu">position_jitterdodge</span>(<span class="at">jitter.width =</span> <span class="fl">0.3</span>, </span>
+<span id="cb30-75"><a href="#cb30-75" aria-hidden="true" tabindex="-1"></a>                                    <span class="at">dodge.width =</span> <span class="fl">0.75</span>),</span>
+<span id="cb30-76"><a href="#cb30-76" aria-hidden="true" tabindex="-1"></a>    <span class="at">size =</span> <span class="fl">0.5</span>,</span>
+<span id="cb30-77"><a href="#cb30-77" aria-hidden="true" tabindex="-1"></a>    <span class="at">alpha =</span> <span class="fl">0.4</span></span>
+<span id="cb30-78"><a href="#cb30-78" aria-hidden="true" tabindex="-1"></a>  ) <span class="sc">+</span></span>
+<span id="cb30-79"><a href="#cb30-79" aria-hidden="true" tabindex="-1"></a>  <span class="fu">scale_color_manual</span>(<span class="at">values =</span> <span class="fu">c</span>(<span class="st">"Males"</span> <span class="ot">=</span> <span class="st">"#58c3c3"</span>, </span>
+<span id="cb30-80"><a href="#cb30-80" aria-hidden="true" tabindex="-1"></a>                                <span class="st">"Females"</span> <span class="ot">=</span> <span class="st">"#f08080"</span>)) <span class="sc">+</span></span>
+<span id="cb30-81"><a href="#cb30-81" aria-hidden="true" tabindex="-1"></a>  <span class="fu">scale_y_continuous</span>(<span class="at">breaks =</span> <span class="fu">seq</span>(<span class="dv">0</span>, <span class="dv">90</span>, <span class="at">by =</span> <span class="dv">10</span>), <span class="at">limits =</span> <span class="fu">c</span>(<span class="dv">0</span>, <span class="dv">90</span>))<span class="sc">+</span></span>
+<span id="cb30-82"><a href="#cb30-82" aria-hidden="true" tabindex="-1"></a>  <span class="fu">labs</span>(</span>
+<span id="cb30-83"><a href="#cb30-83" aria-hidden="true" tabindex="-1"></a>    <span class="at">title =</span> <span class="st">"Age Distribution by Region and Gender"</span>,</span>
+<span id="cb30-84"><a href="#cb30-84" aria-hidden="true" tabindex="-1"></a>    <span class="at">x =</span> <span class="cn">NULL</span>,</span>
+<span id="cb30-85"><a href="#cb30-85" aria-hidden="true" tabindex="-1"></a>    <span class="at">y =</span> <span class="cn">NULL</span>,</span>
+<span id="cb30-86"><a href="#cb30-86" aria-hidden="true" tabindex="-1"></a>    <span class="at">color =</span> <span class="cn">NULL</span></span>
+<span id="cb30-87"><a href="#cb30-87" aria-hidden="true" tabindex="-1"></a>  ) <span class="sc">+</span></span>
+<span id="cb30-88"><a href="#cb30-88" aria-hidden="true" tabindex="-1"></a>  <span class="fu">theme_minimal</span>() <span class="sc">+</span></span>
+<span id="cb30-89"><a href="#cb30-89" aria-hidden="true" tabindex="-1"></a>  common_theme_v3</span>
+<span id="cb30-90"><a href="#cb30-90" aria-hidden="true" tabindex="-1"></a></span>
+<span id="cb30-91"><a href="#cb30-91" aria-hidden="true" tabindex="-1"></a></span>
+<span id="cb30-92"><a href="#cb30-92" aria-hidden="true" tabindex="-1"></a>p12 <span class="ot">&lt;-</span> <span class="fu">ggplot</span>(v3_ridges, <span class="fu">aes</span>(<span class="at">x =</span> Age, <span class="at">y =</span> <span class="fu">fct_rev</span>(Region), </span>
+<span id="cb30-93"><a href="#cb30-93" aria-hidden="true" tabindex="-1"></a>                             <span class="at">fill =</span> Region)) <span class="sc">+</span></span>
+<span id="cb30-94"><a href="#cb30-94" aria-hidden="true" tabindex="-1"></a>  <span class="fu">geom_density_ridges</span>(<span class="at">scale =</span> <span class="fl">0.9</span>, </span>
+<span id="cb30-95"><a href="#cb30-95" aria-hidden="true" tabindex="-1"></a>                      <span class="at">alpha =</span> <span class="fl">0.6</span>, </span>
+<span id="cb30-96"><a href="#cb30-96" aria-hidden="true" tabindex="-1"></a>                      <span class="at">color =</span> <span class="st">"black"</span>) <span class="sc">+</span></span>
+<span id="cb30-97"><a href="#cb30-97" aria-hidden="true" tabindex="-1"></a></span>
+<span id="cb30-98"><a href="#cb30-98" aria-hidden="true" tabindex="-1"></a>  <span class="fu">geom_jitter</span>(<span class="at">data =</span> v3_points,</span>
+<span id="cb30-99"><a href="#cb30-99" aria-hidden="true" tabindex="-1"></a>              <span class="fu">aes</span>(<span class="at">x =</span> Age, </span>
+<span id="cb30-100"><a href="#cb30-100" aria-hidden="true" tabindex="-1"></a>                  <span class="at">y =</span> Region_numeric <span class="sc">+</span> <span class="fl">0.25</span>, </span>
+<span id="cb30-101"><a href="#cb30-101" aria-hidden="true" tabindex="-1"></a>                  <span class="at">color =</span> Region),</span>
+<span id="cb30-102"><a href="#cb30-102" aria-hidden="true" tabindex="-1"></a>              <span class="at">height =</span> <span class="fl">0.2</span>, </span>
+<span id="cb30-103"><a href="#cb30-103" aria-hidden="true" tabindex="-1"></a>              <span class="at">width =</span> <span class="dv">0</span>, </span>
+<span id="cb30-104"><a href="#cb30-104" aria-hidden="true" tabindex="-1"></a>              <span class="at">size =</span> <span class="fl">0.05</span>, </span>
+<span id="cb30-105"><a href="#cb30-105" aria-hidden="true" tabindex="-1"></a>              <span class="at">alpha =</span> <span class="fl">0.6</span>,</span>
+<span id="cb30-106"><a href="#cb30-106" aria-hidden="true" tabindex="-1"></a>              <span class="at">inherit.aes =</span> <span class="cn">FALSE</span>) <span class="sc">+</span></span>
+<span id="cb30-107"><a href="#cb30-107" aria-hidden="true" tabindex="-1"></a>  </span>
+<span id="cb30-108"><a href="#cb30-108" aria-hidden="true" tabindex="-1"></a>  <span class="fu">scale_fill_brewer</span>(<span class="at">palette =</span> <span class="st">"Set3"</span>) <span class="sc">+</span></span>
+<span id="cb30-109"><a href="#cb30-109" aria-hidden="true" tabindex="-1"></a>  <span class="fu">scale_color_brewer</span>(<span class="at">palette =</span> <span class="st">"Dark2"</span>) <span class="sc">+</span></span>
+<span id="cb30-110"><a href="#cb30-110" aria-hidden="true" tabindex="-1"></a>  <span class="fu">scale_x_continuous</span>(<span class="at">breaks =</span> <span class="fu">seq</span>(<span class="dv">0</span>, <span class="dv">90</span>, <span class="at">by =</span> <span class="dv">10</span>), <span class="at">limits =</span> <span class="fu">c</span>(<span class="dv">0</span>, <span class="dv">90</span>)) <span class="sc">+</span> </span>
+<span id="cb30-111"><a href="#cb30-111" aria-hidden="true" tabindex="-1"></a>  <span class="fu">labs</span>(</span>
+<span id="cb30-112"><a href="#cb30-112" aria-hidden="true" tabindex="-1"></a>    <span class="at">title =</span> <span class="st">"Age Distribution Across Regions in Singapore"</span>,</span>
+<span id="cb30-113"><a href="#cb30-113" aria-hidden="true" tabindex="-1"></a>      <span class="at">x =</span> <span class="cn">NULL</span>,</span>
+<span id="cb30-114"><a href="#cb30-114" aria-hidden="true" tabindex="-1"></a>    <span class="at">y =</span> <span class="cn">NULL</span></span>
+<span id="cb30-115"><a href="#cb30-115" aria-hidden="true" tabindex="-1"></a>  ) <span class="sc">+</span></span>
+<span id="cb30-116"><a href="#cb30-116" aria-hidden="true" tabindex="-1"></a>  <span class="fu">theme_minimal</span>(<span class="at">base_size =</span> <span class="dv">12</span>) <span class="sc">+</span></span>
+<span id="cb30-117"><a href="#cb30-117" aria-hidden="true" tabindex="-1"></a>  <span class="fu">theme</span>(</span>
+<span id="cb30-118"><a href="#cb30-118" aria-hidden="true" tabindex="-1"></a>    <span class="at">legend.position =</span> <span class="st">"none"</span>,</span>
+<span id="cb30-119"><a href="#cb30-119" aria-hidden="true" tabindex="-1"></a>    <span class="at">panel.grid.major.y =</span> <span class="fu">element_blank</span>(),</span>
+<span id="cb30-120"><a href="#cb30-120" aria-hidden="true" tabindex="-1"></a>    <span class="at">panel.grid.minor =</span> <span class="fu">element_blank</span>(),</span>
+<span id="cb30-121"><a href="#cb30-121" aria-hidden="true" tabindex="-1"></a>    <span class="at">axis.title.x =</span> <span class="fu">element_text</span>(<span class="at">hjust =</span> <span class="dv">1</span>),</span>
+<span id="cb30-122"><a href="#cb30-122" aria-hidden="true" tabindex="-1"></a>    <span class="at">plot.title =</span> <span class="fu">element_text</span>(<span class="at">face =</span> <span class="st">"bold"</span>, <span class="at">size =</span> <span class="dv">14</span>),</span>
+<span id="cb30-123"><a href="#cb30-123" aria-hidden="true" tabindex="-1"></a>  )</span>
+<span id="cb30-124"><a href="#cb30-124" aria-hidden="true" tabindex="-1"></a></span>
+<span id="cb30-125"><a href="#cb30-125" aria-hidden="true" tabindex="-1"></a></span>
+<span id="cb30-126"><a href="#cb30-126" aria-hidden="true" tabindex="-1"></a>a <span class="ot">&lt;-</span> (p9 <span class="sc">+</span> p10) <span class="sc">/</span> (p11<span class="sc">+</span>p12)</span>
+<span id="cb30-127"><a href="#cb30-127" aria-hidden="true" tabindex="-1"></a>a </span></code><button title="Copy to Clipboard" class="code-copy-button"><i class="bi"></i></button></pre></div>
 </div>
 </div>
 </div>

diff --git a/_site/all-posts.html b/_site/all-posts.html
@@ -367,7 +367,7 @@ May 3, 2024
 </div>
 </a>
 </div>
-<div class="g-col-1" data-index="4" data-listing-date-sort="1714406400000" data-listing-file-modified-sort="1746347491090" data-listing-date-modified-sort="1746347491000" data-listing-reading-time-sort="51" data-listing-word-count-sort="10197">
+<div class="g-col-1" data-index="4" data-listing-date-sort="1714406400000" data-listing-file-modified-sort="1746351367312" data-listing-date-modified-sort="1746351367000" data-listing-reading-time-sort="52" data-listing-word-count-sort="10329">
 <a href="./Take-home_Ex/Take-home_Ex01/Take-home_Ex01.html" class="quarto-grid-link">
 <div class="quarto-grid-item card h-100 card-left">
 <p class="card-img-top">
